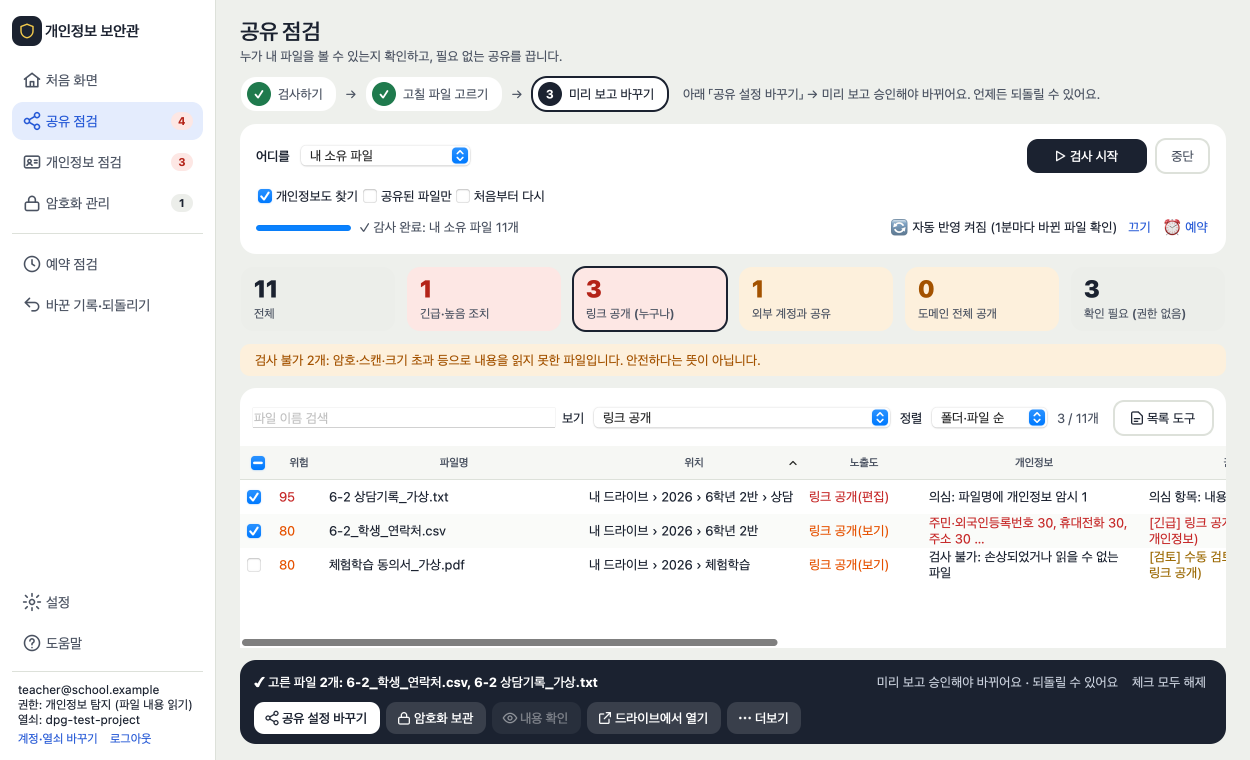
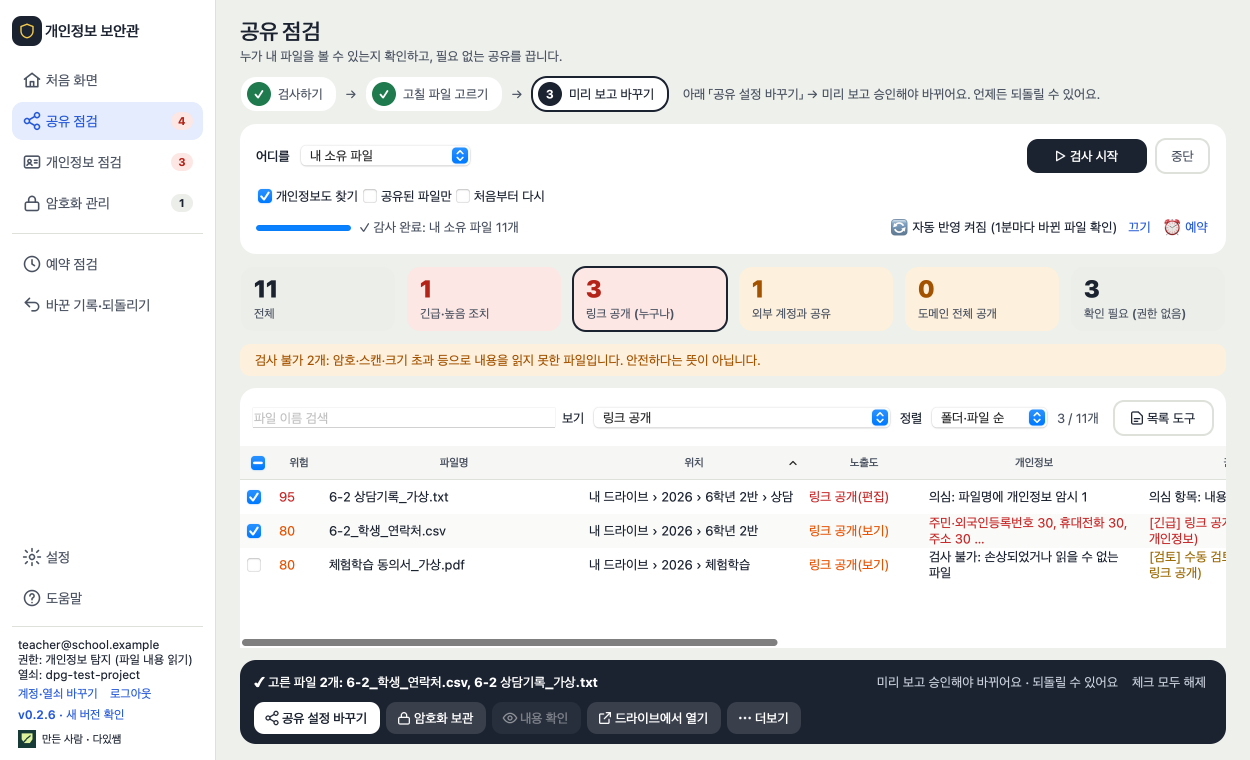
Bug report, version check and maker's mark (D-109)
- 「오류 신고」: desktop Help menu and extension help open the maker's report form in the
  browser (app name, version and screen only; the app sends nothing); site footer link
- 「새 버전 확인」: version always in view (left menu / extension help), opens releases/latest
  in the browser; no automatic check (CLAUDE.md rule)
- 「만든 사람 · 다있쌤」 with the 다있쌤 icon: desktop left menu and About, extension help, site
- extension: the two outside addresses live only in lib/links.js and are only opened with
  window.open (security test)

Changed region(s): [[0.0, 0.7263, 0.156, 0.9987]]

diff --git a/extension/app/viewer.js b/extension/app/viewer.js
@@ -10,6 +10,7 @@ import * as keyring from "./lib/keyring.js";
 import { viewModel } from "./lib/view.js";
 import { renderModel } from "./lib/render.js";
 import { planMembers, reencrypt, ReencryptFailed } from "./lib/reencrypt.js";
+import { RELEASES_URL, bugReportUrl } from "./lib/links.js";
 import { parseDriveUrl } from "./lib/driveurl.js";
 import { restoreToDrive, RestoreFailed } from "./lib/restore.js";
 import * as sharing from "./lib/sharing.js";
@@ -93,8 +94,10 @@ function toggle(btn, show) {
 // One view at a time (user request): 암호화 파일 / 공유 점검 / 개인정보 검사 / 설정 / 도움말.
 const VIEW_BUTTONS = { vault: "tabVault", audit: "auditBtn", pii: "piiBtn", settings: "settingsBtn", help: "helpBtn" };
 const VIEW_TITLES = { vault: "암호화 관리", audit: "공유 점검", pii: "개인정보 점검", settings: "설정", help: "도움말" };
+let workView = "vault"; // the last job view, for 「오류 신고」 (where the problem was)
 function setView(name) {
   document.body.dataset.view = name;
+  if (name !== "help" && name !== "settings") workView = name;
   $("pageTitle").textContent = VIEW_TITLES[name] || "";
   for (const [v, id] of Object.entries(VIEW_BUTTONS)) toggle($(id), v === name);
   if (name === "pii") updatePiiHint();
@@ -120,6 +123,11 @@ async function showBig(opts) {
 $("settingsBtn").onclick = () => setView("settings");
 $("helpBtn").onclick = () => setView("help");
 $("guideBtn").onclick = () => window.open(chrome.runtime.getURL("guide.html"), "_blank", "noopener");
+// D-109: both open in a new tab only when pressed; nothing is sent or checked by the extension.
+const VERSION = chrome.runtime.getManifest?.().version || "";
+$("updateBtn").textContent = `새 버전 확인 (지금 v${VERSION})`;
+$("updateBtn").onclick = () => window.open(RELEASES_URL, "_blank", "noopener");
+$("reportBtn").onclick = () => window.open(bugReportUrl(VERSION, VIEW_TITLES[workView] || ""), "_blank", "noopener");
 drive.clientId().then((id) => {
   $("client").value = id;
   if (!id) { $("settings").hidden = false; message("처음 한 번 설정에서 클라이언트 ID를 저장해 주세요."); }

diff --git a/extension/app/test/harness/harness.js b/extension/app/test/harness/harness.js
@@ -107,6 +107,7 @@ globalThis.chrome = {
   runtime: {
     id: "harness-ext",
     getURL: (path) => new URL(`../../${path}`, location.href).href,
+    getManifest: () => ({ version: "0.2.6" }),
     sendMessage: async (m) => { window.harnessMessages.push(m); return null; },
     onMessage: { addListener: (fn) => { window.harnessMsgListeners.push(fn); } },
   },
@@ -192,6 +193,8 @@ window.fetch = async (input, init) => {
 const html = await (await realFetch("../../viewer.html")).text();
 document.body.innerHTML = new DOMParser().parseFromString(html, "text/html").body.innerHTML; // own trusted file
 document.querySelectorAll("script").forEach((s) => s.remove());
+// relative paths in viewer.html are relative to the extension root, not to this harness page
+document.querySelectorAll('img[src^="img/"]').forEach((i) => { i.src = `../../${i.getAttribute("src")}`; });
 window.harnessKey = (await (await realFetch(FIX + "recovery.txt")).text()).split("\n")[0].trim();
 { // the standard-ZIP fixture's common password: derived from the synthetic key (tag c0ffee00)
   const { parseRecoveryKey, derivePassword } = await import("../../lib/vault.js");

diff --git a/site/public/setup.html b/site/public/setup.html
@@ -137,6 +137,6 @@
     <p class="note">로그인 권한을 직접 끊으려면 <a href="https://myaccount.google.com/connections" target="_blank" rel="noopener">구글 계정 → 연결된 앱</a>에서 앱을 고르고 <b>액세스 권한 삭제</b>.</p>
   </section>
 </main>
-<footer><div class="wrap">개인정보 보안관 · 무료 오픈소스 · <a href="https://github.com/janghwansangai/drive-privacy-guardian">GitHub</a></div></footer>
+<footer><div class="wrap">개인정보 보안관 · 무료 오픈소스 · <a href="https://github.com/janghwansangai/drive-privacy-guardian">GitHub</a> · <a href="https://script.google.com/macros/s/AKfycbxsRD7vRlEP9oKlvlDDPww8cYaDadTTIp1KrqYWSVU5qE5_gUh3bNUskBhHDlXH6FskvA/exec?app=google-scerct&amp;where=%EC%82%AC%EC%9D%B4%ED%8A%B8%20%C2%B7%20%EA%B5%AC%EA%B8%80%20%EC%84%A4%EC%A0%95" rel="noopener">🐞 오류 신고</a><div class="maker"><img src="img/daissam.png" alt="" width="20" height="20">만든 사람 · 다있쌤</div></div></footer>
 </body>
 </html>

diff --git a/extension/app/lib/links.js b/extension/app/lib/links.js
@@ -1,0 +1,13 @@
+// Pages opened in a new browser tab when the user asks (D-109) — never fetched by the extension:
+// connect-src allows only the Drive API (manifest CSP), and test/security.test.mjs checks that
+// these are only handed to window.open.
+//   「오류 신고」: the maker's report form (only the app name, version and view in the address)
+//   「새 버전 확인」: the latest release page (the extension never checks by itself)
+export const BUG_REPORT_URL = "https://script.google.com/macros/s/AKfycbxsRD7vRlEP9oKlvlDDPww8cYaDadTTIp1KrqYWSVU5qE5_gUh3bNUskBhHDlXH6FskvA/exec";
+export const BUG_REPORT_APP = "google-scerct";
+export const RELEASES_URL = "https://github.com/janghwansangai/drive-privacy-guardian/releases/latest";
+
+export function bugReportUrl(version, where) {
+  const q = new URLSearchParams({ app: BUG_REPORT_APP, v: version || "", where: where || "" });
+  return `${BUG_REPORT_URL}?${q}`;
+}

diff --git a/site/public/desktop.html b/site/public/desktop.html
@@ -76,6 +76,6 @@
     </div>
   </section>
 </main>
-<footer><div class="wrap">개인정보 보안관 · 무료 오픈소스 · <a href="https://github.com/janghwansangai/drive-privacy-guardian">GitHub</a> · 화면의 이름과 숫자는 예시 데이터입니다.</div></footer>
+<footer><div class="wrap">개인정보 보안관 · 무료 오픈소스 · <a href="https://github.com/janghwansangai/drive-privacy-guardian">GitHub</a> · <a href="https://script.google.com/macros/s/AKfycbxsRD7vRlEP9oKlvlDDPww8cYaDadTTIp1KrqYWSVU5qE5_gUh3bNUskBhHDlXH6FskvA/exec?app=google-scerct&amp;where=%EC%82%AC%EC%9D%B4%ED%8A%B8%20%C2%B7%20%EB%8D%B0%EC%8A%A4%ED%81%AC%ED%86%B1%20%EC%82%AC%EC%9A%A9%EB%B2%95" rel="noopener">🐞 오류 신고</a> · 화면의 이름과 숫자는 예시 데이터입니다.<div class="maker"><img src="img/daissam.png" alt="" width="20" height="20">만든 사람 · 다있쌤</div></div></footer>
 </body>
 </html>

diff --git a/extension/app/viewer.html b/extension/app/viewer.html
@@ -146,6 +146,9 @@
         <li><span class="sq green"><svg class="ic"><use href="#i-lock"/></svg></span><div><b>암호화 관리</b><br><span class="cap">드라이브에서 고른 파일 암호화·열기·풀기</span></div></li>
       </ul>
       <button id="guideBtn" class="btn primary blue"><svg class="ic"><use href="#i-book"/></svg><span>설명서 열기</span></button>
+      <div class="helpLinks"><button id="reportBtn" class="btn outline blue">🐞 오류 신고</button><button id="updateBtn" class="btn outline blue">새 버전 확인</button></div>
+      <p class="cap">오류 신고는 브라우저 새 탭에서 양식을 엽니다. 이 프로그램은 아무것도 보내지 않으니 개인정보·비밀번호·파일 이름은 쓰지 마세요.</p>
+      <div class="maker"><img src="img/daissam.png" alt="" width="20" height="20"><span>만든 사람 · 다있쌤</span></div>
     </div>
   </section>
 

diff --git a/site/public/index.html b/site/public/index.html
@@ -83,6 +83,6 @@
   </section>
 </div>
 </main>
-<footer><div class="wrap">개인정보 보안관 · 무료 오픈소스 · <a href="https://github.com/janghwansangai/drive-privacy-guardian">GitHub</a> · 화면의 이름과 숫자는 예시 데이터입니다.</div></footer>
+<footer><div class="wrap">개인정보 보안관 · 무료 오픈소스 · <a href="https://github.com/janghwansangai/drive-privacy-guardian">GitHub</a> · <a href="https://script.google.com/macros/s/AKfycbxsRD7vRlEP9oKlvlDDPww8cYaDadTTIp1KrqYWSVU5qE5_gUh3bNUskBhHDlXH6FskvA/exec?app=google-scerct&amp;where=%EC%82%AC%EC%9D%B4%ED%8A%B8%20%C2%B7%20%EC%B2%AB%20%ED%8E%98%EC%9D%B4%EC%A7%80" rel="noopener">🐞 오류 신고</a> · 화면의 이름과 숫자는 예시 데이터입니다.<div class="maker"><img src="img/daissam.png" alt="" width="20" height="20">만든 사람 · 다있쌤</div></div></footer>
 </body>
 </html>

diff --git a/extension/app/viewer.css b/extension/app/viewer.css
@@ -160,6 +160,9 @@ table.rows td.x button { color: var(--muted); border-radius: 50%; width: 26px; h
 table.rows td.state { width: 52px; font-size: 12px; font-weight: 600; color: var(--amber); }
 .tips { list-style: none; padding: 0; margin: 4px 0; display: flex; flex-direction: column; gap: 12px; }
 .tips li { display: flex; gap: 12px; align-items: center; }
+.helpLinks { display: flex; gap: 8px; flex-wrap: wrap; margin-top: 4px; }
+.maker { display: flex; align-items: center; gap: 8px; font-size: 12px; font-weight: 600; color: var(--muted); border-top: 1px solid var(--line); padding-top: 10px; margin-top: 6px; }
+.maker img { border-radius: 5px; }
 
 #view { margin-top: 4px; }
 .doc p { margin: 4px 0; white-space: pre-wrap; line-height: 1.6; }

diff --git a/site/public/site.css b/site/public/site.css
@@ -55,6 +55,8 @@ code{background:var(--ground);padding:1px 6px;border-radius:5px;font-size:.92em}
 .dc small{color:var(--muted)}
 .dc .ar{margin-left:auto;color:var(--blue);font-weight:700;font-size:18px}
 footer{padding:56px 0 32px;color:var(--muted);font-size:14px;text-align:center}
+footer .maker{display:flex;justify-content:center;align-items:center;gap:8px;margin-top:12px;font-weight:600}
+footer .maker img{border-radius:5px}
 @media (max-width:820px){
   .show{grid-template-columns:1fr;padding:18px}
   .tabs{flex-direction:row;overflow-x:auto}

diff --git a/src/dpg/gui/main_window.py b/src/dpg/gui/main_window.py
@@ -12,7 +12,7 @@ from typing import Any
 from urllib.parse import quote
 
 from PySide6.QtCore import QEvent, QObject, Qt, QTimer
-from PySide6.QtGui import QAction, QCloseEvent, QGuiApplication, QKeySequence
+from PySide6.QtGui import QAction, QCloseEvent, QGuiApplication, QKeySequence, QPixmap
 from PySide6.QtWidgets import (
     QApplication,
     QCheckBox,
@@ -41,7 +41,7 @@ from PySide6.QtWidgets import (
     QWidget,
 )
 
-from dpg import __version__
+from dpg import MAKER_KO, __version__
 from dpg.core.actions.executor import ActionExecutor, ActionProgress
 from dpg.core.actions.model import ActionKind, ChangeState, Plan, RunResult
 from dpg.core.actions.planner import build_plan
@@ -186,6 +186,7 @@ def _duration_ko(seconds: float) -> str:
 
 OPEN_MAX = 10
 RECOVERY_TOOL = Path(__file__).resolve().parents[1] / "resources" / "recovery-tool.html"
+MAKER_LOGO = Path(__file__).resolve().parents[1] / "resources" / "daissam.png"
 
 
 def drive_link(a: FileAudit) -> str:
@@ -248,6 +249,7 @@ ABOUT_TEXT = (
     "이 컴퓨터 안에서만 점검하는 무료 프로그램입니다. "
     "구글 외 어떤 서버와도 통신하지 않습니다.\n\n"
     "본 제품은 한컴의 HWP 문서 파일(.hwp) 공개 문서를 참고하여 개발하였습니다.\n\n"
+    "만든 사람: 다있쌤\n\n"
     "라이선스: MIT. Qt/PySide6는 LGPL-3.0으로 사용하며 교체할 수 있습니다(NOTICE_KO.txt). "
     "그 밖의 오픈소스 라이선스는 THIRD_PARTY_LICENSES.txt에 있습니다.\n\n"
     "Google Drive는 Google LLC의 상표입니다. 이 프로그램은 Google과 제휴하거나 "
@@ -675,6 +677,9 @@ class MainWindow(QMainWindow):
         guide = QAction("사용 설명서 (사이트)", self)
         guide.triggered.connect(lambda: self.ctx.open_url(GUIDE_URL))
         help_menu.addAction(guide)
+        report = QAction("오류 신고…", self)
+        report.triggered.connect(self.report_problem)
+        help_menu.addAction(report)
         update = QAction("새 버전 확인…", self)
         update.triggered.connect(self.check_update)
         help_menu.addAction(update)
@@ -788,6 +793,34 @@ class MainWindow(QMainWindow):
         acct_buttons.addStretch(1)
         acct_col.addWidget(self.account_label)
         acct_col.addLayout(acct_buttons)
+        # 새 버전 확인: the version in view, the latest one opens in the browser (no check here)
+        self.version_btn = QPushButton(f"v{__version__} · 새 버전 확인")
+        self.version_btn.setObjectName("acctBtn")
+        self.version_btn.setToolTip(
+            "브라우저에서 최신 버전 페이지를 엽니다 (이 앱은 직접 확인하지 않음)"
+        )
+        self.version_btn.clicked.connect(self.check_update)
+        acct_col.addWidget(self.version_btn)
+        maker = QHBoxLayout()
+        maker.setSpacing(6)
+        self.maker_logo = QLabel()
+        self.maker_logo.setFixedSize(18, 18)
+        logo = QPixmap(str(MAKER_LOGO))
+        if not logo.isNull():
+            logo = logo.scaled(
+                36,
+                36,
+                Qt.AspectRatioMode.KeepAspectRatio,
+                Qt.TransformationMode.SmoothTransformation,
+            )
+            logo.setDevicePixelRatio(2.0)
+            self.maker_logo.setPixmap(logo)
+        maker_text = QLabel(f"만든 사람 · {MAKER_KO}")
+        maker_text.setObjectName("maker")
+        maker.addWidget(self.maker_logo)
+        maker.addWidget(maker_text, 1)
+        acct_col.addSpacing(4)
+        acct_col.addLayout(maker)
         col.addSpacing(6)
         col.addWidget(acct)
         return nav
@@ -3456,7 +3489,28 @@ class MainWindow(QMainWindow):
                 f"현재 버전: {__version__}\n배포 저장소 주소가 아직 설정되지 않았습니다.",
             )
             return
-        self.ctx.open_url(REPOSITORY_URL.rstrip("/") + "/releases")
+        self.ctx.open_url(REPOSITORY_URL.rstrip("/") + "/releases/latest")
+
+    def report_problem(self) -> None:
+        """「오류 신고」 (D-109): the maker's report form in the user's browser. Only the app name,
+        version and the screen's name go in the address — never files, accounts or results."""
+        from dpg import BUG_REPORT_APP, BUG_REPORT_URL
+
+        if not self.ctx.confirm(
+            self,
+            "오류 신고",
+            "브라우저에서 오류 신고 양식을 엽니다.\n\n"
+            "이 프로그램은 아무것도 보내지 않습니다. 양식에 직접 쓴 내용만 만든 사람에게 "
+            "전달됩니다. 개인정보·비밀번호·파일 이름은 쓰지 마세요.",
+            "양식 열기",
+            "취소",
+        ):
+            return
+        where = "처음 화면" if self.page_key == "home" else PAGES[self.page_key].title
+        self.ctx.open_url(
+            f"{BUG_REPORT_URL}?app={quote(BUG_REPORT_APP)}"
+            f"&v={quote(__version__)}&where={quote(where)}"
+        )
 
     def show_checklist(self) -> None:
         dialog = ChecklistDialog(set(self.ctx.prefs.checklist_done), self.ctx.open_url, self)

diff --git a/tests/gui/test_gui.py b/tests/gui/test_gui.py
@@ -1222,3 +1222,40 @@ def test_window_fits_a_laptop_screen(qtbot: Any, env: Env) -> None:
     assert window.width() <= 1280
     header = window.table.horizontalHeader()
     assert [header.logicalIndex(v) for v in range(3)] == [mw.COL_CHECK, mw.COL_RISK, COL_NAME]
+
+
+def test_bug_report_opens_the_form_with_only_app_version_and_screen(
+    qtbot: Any, env: Env, monkeypatch: pytest.MonkeyPatch
+) -> None:
+    """D-109: the app sends nothing itself; the browser opens the maker's form, and the address
+    carries only the app name, version and screen — no account, file or result."""
+    import dpg
+
+    assert env.ctx is not None
+    _login(env)
+    window = MainWindow(env.ctx)
+    qtbot.addWidget(window)
+    opened: list[str] = []
+    env.ctx.open_url = lambda url: opened.append(url) or True
+    env.ctx.confirm = lambda *a: False
+    window.report_problem()
+    assert opened == []  # declined: nothing opens
+    env.ctx.confirm = lambda *a: True
+    window.show_page("privacy")
+    window.report_problem()
+    from urllib.parse import parse_qs, urlsplit
+
+    url = urlsplit(opened[-1])
+    assert f"{url.scheme}://{url.netloc}{url.path}" == dpg.BUG_REPORT_URL
+    assert parse_qs(url.query) == {
+        "app": ["google-scerct"],
+        "v": [dpg.__version__],
+        "where": ["개인정보 점검"],
+    }
+    assert ME not in opened[-1]
+    assert env.fake.calls == []  # Drive is not touched
+    # the version and 「새 버전 확인」 are always in view; the latest release opens in the browser
+    assert window.version_btn.text() == f"v{dpg.__version__} · 새 버전 확인"
+    window.version_btn.click()
+    assert opened[-1].endswith("/releases/latest")
+    assert not window.maker_logo.pixmap().isNull()  # 「만든 사람 · 다있쌤」

diff --git a/src/dpg/__init__.py b/src/dpg/__init__.py
@@ -5,3 +5,12 @@ __version__ = "0.2.6"
 # Public source repository (set when the GitHub repository is created). "새 버전 확인" only opens
 # its Releases page in the user's browser — the app itself never checks for updates (SPEC 9).
 REPOSITORY_URL = "https://github.com/janghwansangai/drive-privacy-guardian"
+
+# 「오류 신고」 (D-109): the maker's report form, opened in the user's browser with only the app
+# name, version and screen name in the address. The app itself sends nothing (CLAUDE.md rule 1).
+BUG_REPORT_URL = (
+    "https://script.google.com/macros/s/"
+    "AKfycbxsRD7vRlEP9oKlvlDDPww8cYaDadTTIp1KrqYWSVU5qE5_gUh3bNUskBhHDlXH6FskvA/exec"
+)
+BUG_REPORT_APP = "google-scerct"
+MAKER_KO = "다있쌤"
